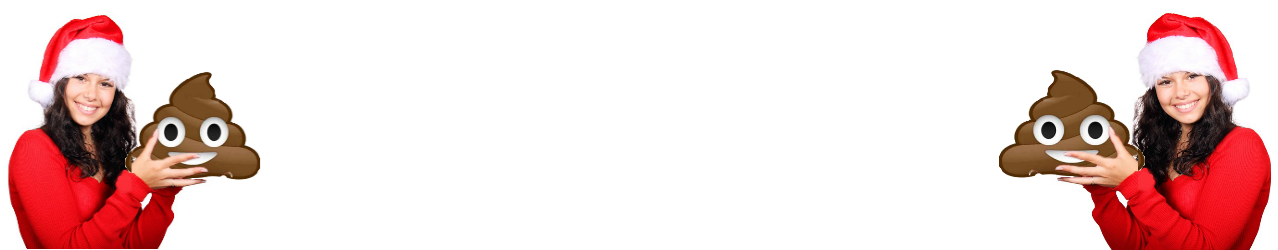
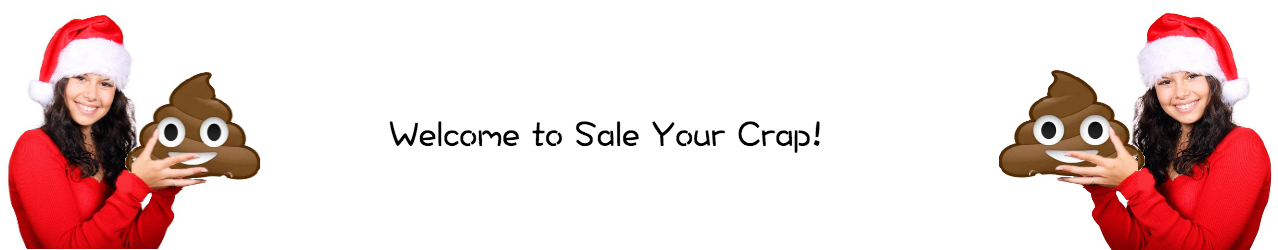
added text to pics changed prices on seeder for ads

Changed region(s): [[0.3052, 0.476, 0.6408, 0.588]]

diff --git a/database/seeds/ads_seeder.php b/database/seeds/ads_seeder.php
@@ -19,7 +19,7 @@ $ad= new Ads;
 $ad->user_id = 1; 
 $ad->name = 'Helicopter';
 $ad->description = 'Really Big Blackhawk CH-30 Russian Gunship Helicopter.'; 
-$ad->price = 1,245,321.42;
+$ad->price = 1245321.42;
 $ad->img_url = '/img/blackhawk.jpg'; 
 $ad->save();
 $ad= new Ads; 
@@ -39,9 +39,9 @@ $ad->save();
 $ad= new Ads; 
 $ad->user_id = 1; 
 $ad->name = 'Breath Freshner';
-$ad->description = 'Try our breathe mints, you\'ll thank us.'; 
+$ad->description = 'Try our breath mints, you\'ll thank us.'; 
 $ad->price = 2.22; 
-$ad->img_url = '/img/breathesmints.jpg';
+$ad->img_url = '/img/breathemints.jpg';
 $ad->save();
 $ad= new Ads; 
 $ad->user_id = 1; 
@@ -82,21 +82,21 @@ $ad= new Ads;
 $ad->user_id = 1; 
 $ad->name = 'Restruant For Sale';
 $ad->description = 'Dicks restruant for sale by owner.'; 
-$ad->price = 505,207.79; 
+$ad->price = 505207.79; 
 $ad->img_url= '/img/dickssale.jpg';
 $ad->save();
 $ad= new Ads; 
 $ad->user_id = 1; 
 $ad->name = 'Building For Lease';
 $ad->description = 'Building is for lease. 22,000 sq.ft.'; 
-$ad->price = 5,000.01;
+$ad->price = 5000.01;
 $ad->img_url= '/img/forlease.jpg';
 $ad->save();
 $ad= new Ads; 
 $ad->user_id = 1; 
 $ad->name = 'Free DVDs';
 $ad->description = 'Mom caught my Step Dad watching these, all must go today. FREE!'; 
-$ad->price = free; 
+$ad->price = 0.01; 
 $ad->img_url= '/img/freeporncollection.jpg';
 $ad->save();
 $ad= new Ads; 
@@ -131,7 +131,7 @@ $ad= new Ads;
 $ad->user_id = 1; 
 $ad->name = 'Lake Front Property';
 $ad->description = 'New lake front residential area. You will have the joys of living near the water and the comforts of the city.';
-$ad->price= 305,708.11;
+$ad->price= 305708.11;
 $ad->img_url= '/img/lakefrontproperty.jpg';
 $ad->save();
 $ad= new Ads; 
@@ -166,7 +166,7 @@ $ad= new Ads;
 $ad->user_id = 1; 
 $ad->name = 'Macbook Pro';
 $ad->description = 'Macbook Pro, running Windows NT, great starter PC.';
-$ad->price= 1,298.97;
+$ad->price= 1298.97;
 $ad->img_url= '/img/mac.jpg';
 $ad->save();
 $ad= new Ads; 
@@ -194,7 +194,7 @@ $ad= new Ads;
 $ad->user_id = 1; 
 $ad->name = 'Women\'s Underwear';
 $ad->description = 'Like new, worn once(or twice) 1 pair is brand new.';
-$ad->price= ;
+$ad->price= .88;
 $ad->img_url= '/img/panties.jpg';
 $ad->save();
 $ad= new Ads; 
@@ -222,7 +222,7 @@ $ad= new Ads;
 $ad->user_id = 1; 
 $ad->name = 'Quick Sale';
 $ad->description = 'Quick sale, Move in ready. Furniture included, make offer soon, because this house will not last long.';
-$ad->price= 205,476.01;
+$ad->price= 205476.01;
 $ad->img_url= '/img/quickmoveinsale.jpg';
 $ad->save();
 $ad= new Ads; 
@@ -236,14 +236,14 @@ $ad= new Ads;
 $ad->user_id = 1; 
 $ad->name = 'Scooter the dog';
 $ad->description = 'Scooter the dog looking for his forever home.';
-$ad->price == 20.78;
+$ad->price = 20.78;
 $ad->img_url = '/img/scooterdog.jpg';
 $ad->save();
 $ad= new Ads; 
 $ad->user_id = 1; 
 $ad->name = 'Free Snowmen';
 $ad->description = 'Free snowmen, some assembly required.';
-$ad->price = 0.00;
+$ad->price = 0.01;
 $ad->img_url = '/img/snowmen.jpg';
 $ad->save();
 $ad= new Ads; 
@@ -264,7 +264,7 @@ $ad= new Ads;
 $ad->user_id = 1; 
 $ad->name = 'Classic Truck';
 $ad->description = 'Classic, has very few number of parts missing. Great for person who wants to learn how to assymble a vehicle.';
-$ad->price = 10,738.88;
+$ad->price = 10738.88;
 $ad->img_url =  '/img/truck.jpg';
 $ad->save();
 $ad= new Ads; 
@@ -278,14 +278,14 @@ $ad= new Ads;
 $ad->user_id = 1; 
 $ad->name = 'Unicorn Meat'; 
 $ad->description  = 'Unique, one off exotic specialty canned meats. Every can comes with a letter of Authenticity.';
-$ad->price = 1,000,000.03;  
+$ad->price = 1000000.03;  
 $ad->img_url = '/img/unicornmeat.jpg';
 $ad->save();
 $ad= new Ads; 
 $ad->user_id = 1; 
 $ad->name = 'Uranium Ore';
 $ad->description = 'For the nuclear physicist in your life.';
-$ad->price = 75,000.00;
+$ad->price = 75000.00;
 $ad->img_url = '/img/uraniumore.png';
 $ad->save();
 $ad= new Ads; 
@@ -306,6 +306,6 @@ $ad= new Ads;
 $ad->user_id = 1; 
 $ad->name = 'Yard Sale';
 $ad->description = 'Another one bites the dust. Come take advantage of these prices, they are to die for!';
-$ad->price = 0.00;
+$ad->price = 0.01;
 $ad->img_url = '/img/yardsale.jpg';
 $ad->save();
